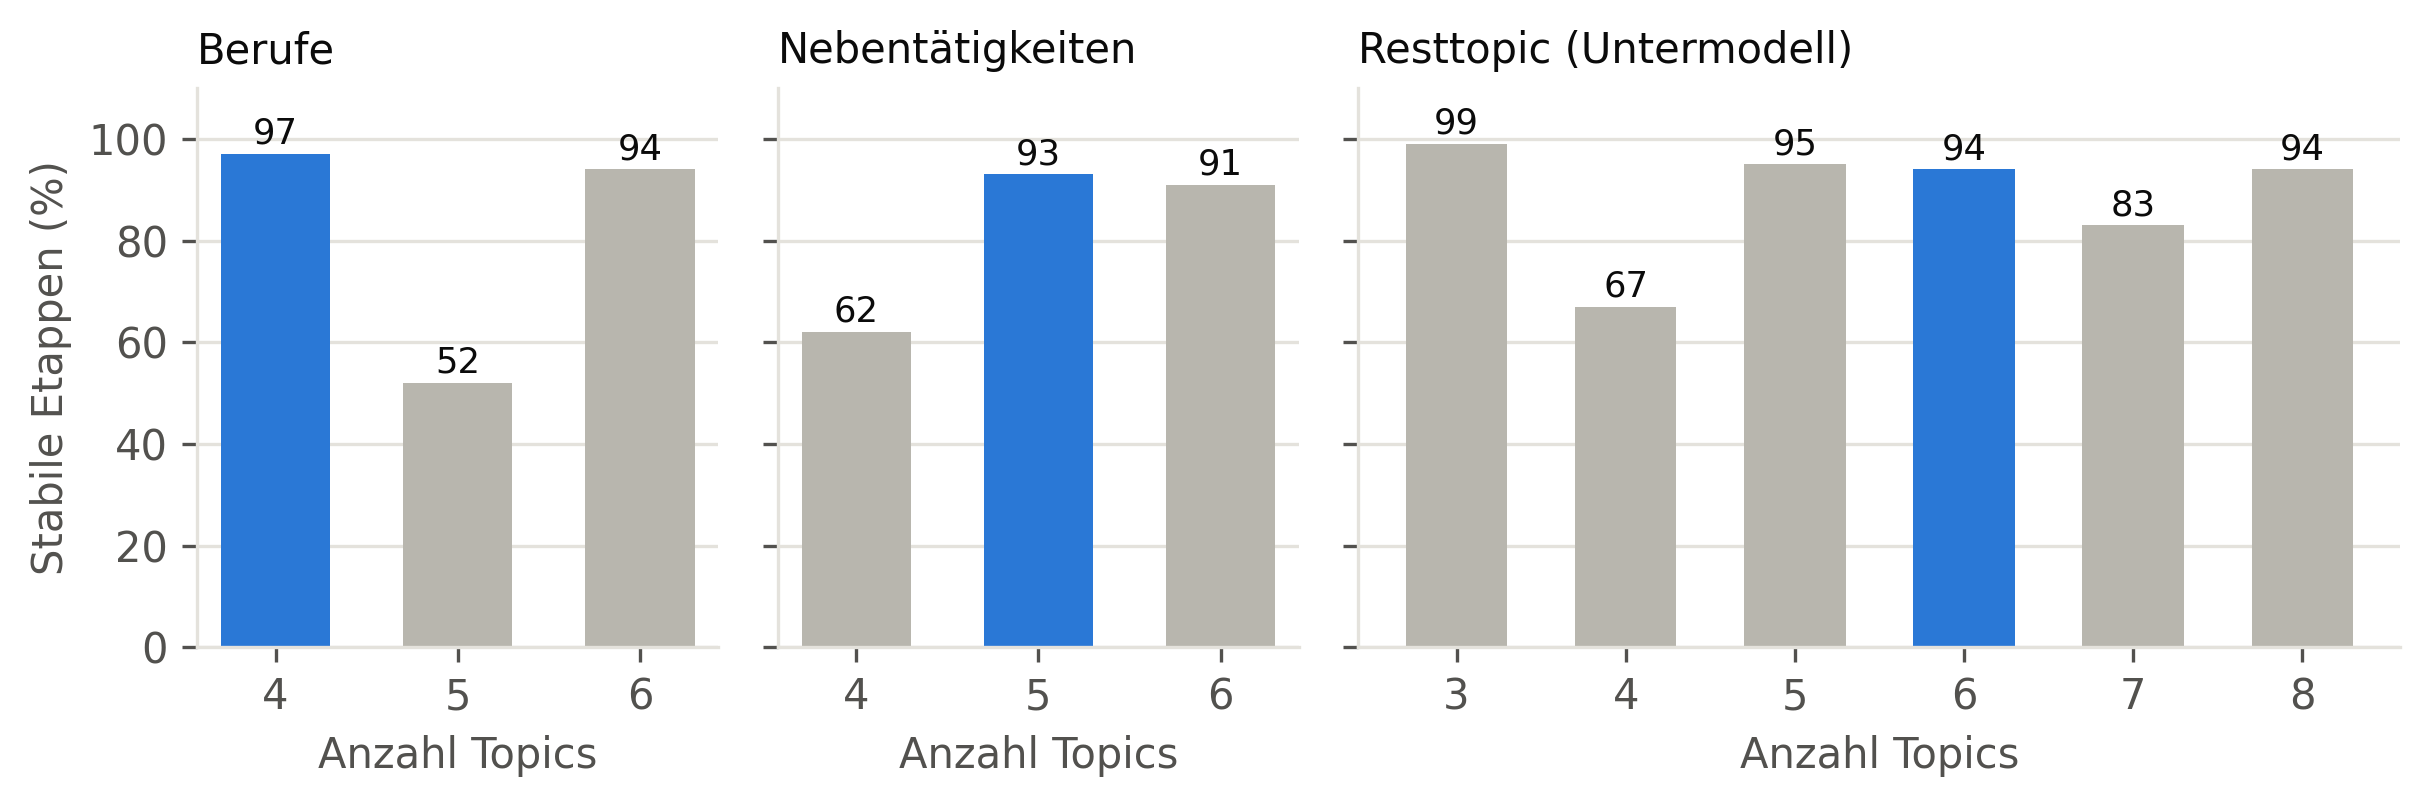
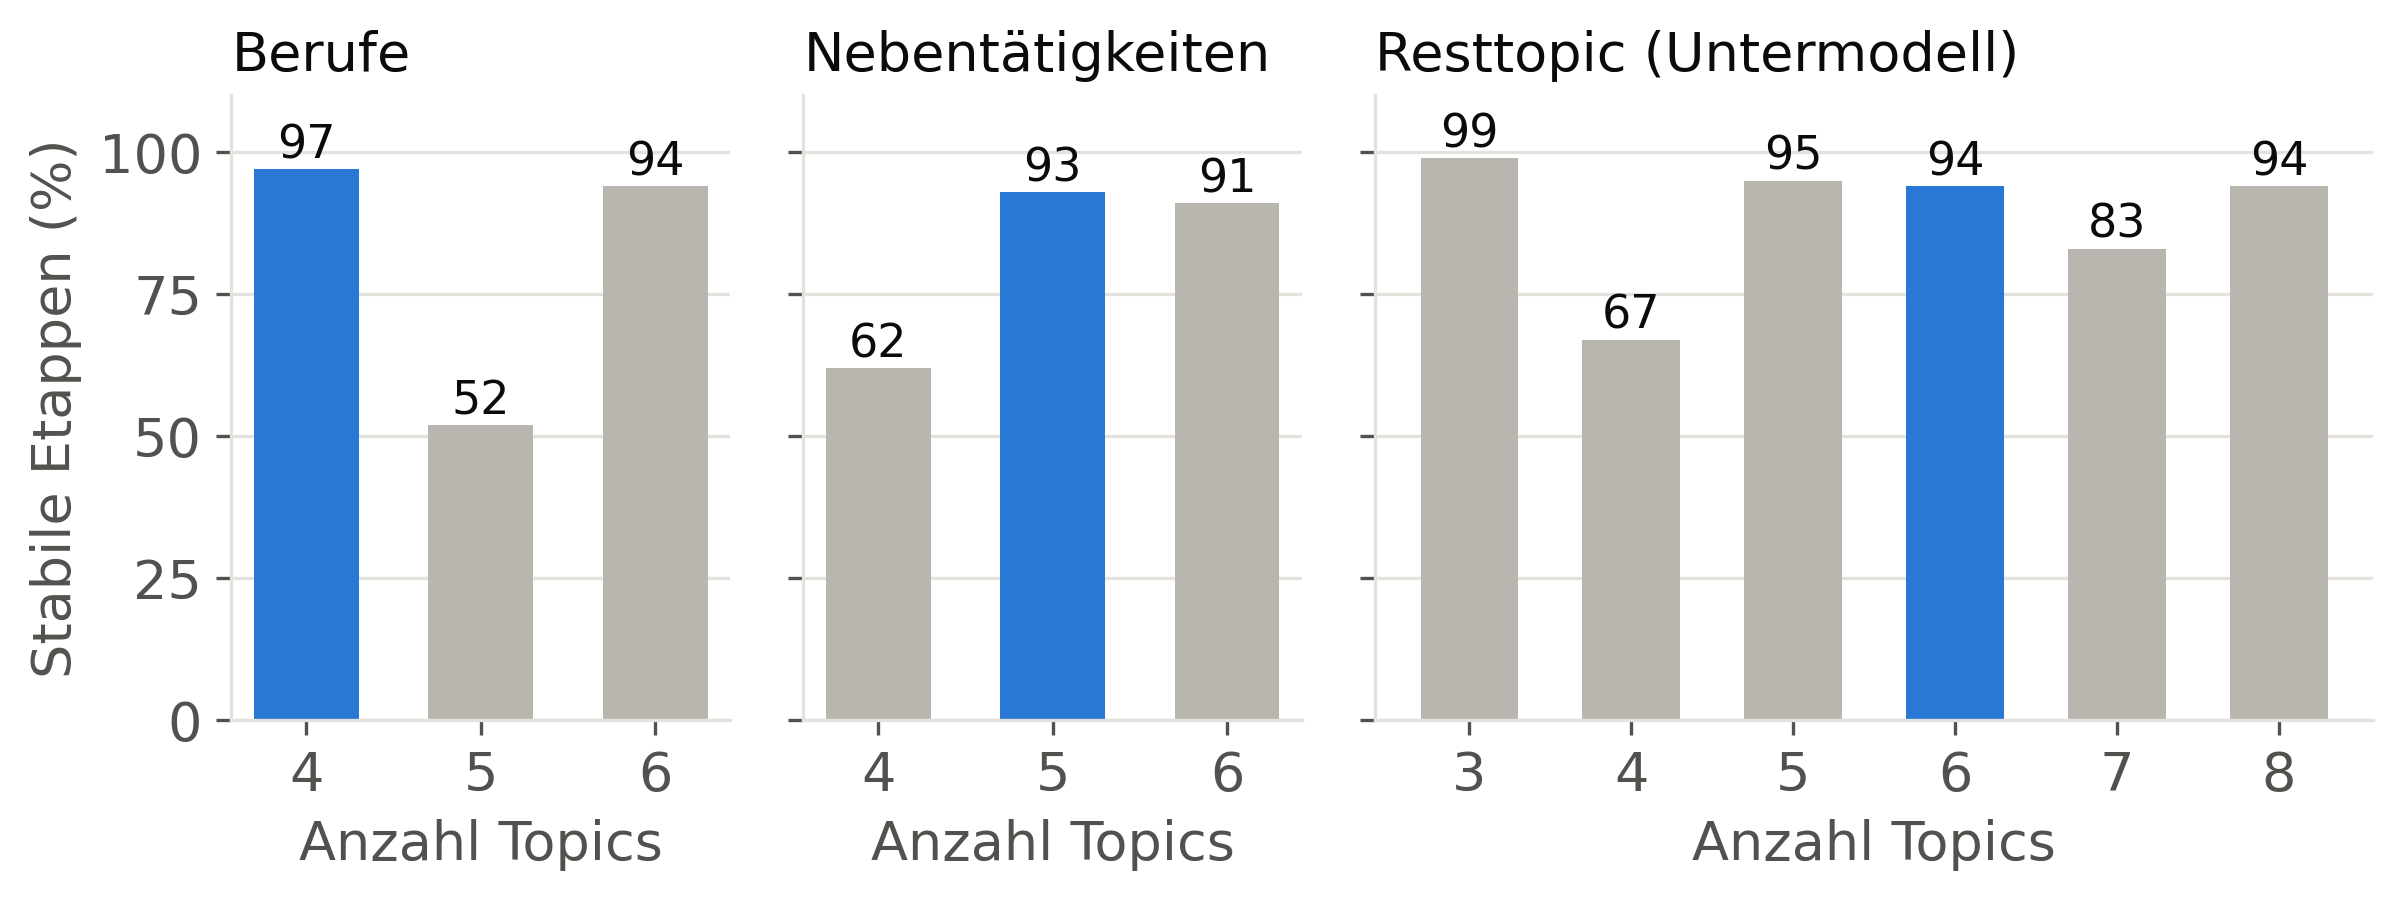
Bilder da vergrössern, wo es muss

diff --git a/data-mode/topic-models/scripts/y_abbildungen.py b/data-mode/topic-models/scripts/y_abbildungen.py
@@ -20,6 +20,9 @@ from pfade import *
 import json
 import numpy as np
 import matplotlib
+# Schriftfaktor: Die Abbildungen sind 8,2 Zoll breit und werden im Buch auf 15 cm verkleinert;
+# mit 1,3 fällt keine Beschriftung unter etwa 7,5 pt.
+SCHRIFT = 1.3
 matplotlib.use("Agg")
 import matplotlib.pyplot as plt
 from matplotlib.patches import FancyBboxPatch
@@ -27,7 +30,7 @@ from matplotlib.patches import FancyBboxPatch
 INK, INK2, GRID, MUTED = "#0b0b0b", "#52514e", "#e4e2dc", "#b8b6ae"
 BLUE, ORANGE, SURF = "#2a78d6", "#eb6834", "#ffffff"
 plt.rcParams.update({
-    "font.family": "DejaVu Sans", "font.size": 10, "text.color": INK,
+    "font.family": "DejaVu Sans", "font.size": 10 * SCHRIFT, "text.color": INK,
     "axes.edgecolor": GRID, "axes.labelcolor": INK2, "xtick.color": INK2,
     "ytick.color": INK2, "axes.spines.top": False, "axes.spines.right": False,
     "figure.facecolor": SURF, "axes.facecolor": SURF,
@@ -47,15 +50,15 @@ def save(fig, name):
 def title(ax, t, sub=None):
     if NOTITLE:
         return
-    ax.set_title(t, loc="left", fontsize=12, fontweight="bold", color=INK, pad=22 if sub else 8)
+    ax.set_title(t, loc="left", fontsize=12 * SCHRIFT, fontweight="bold", color=INK, pad=22 if sub else 8)
     if sub:
-        ax.text(0, 1.02, sub, transform=ax.transAxes, fontsize=9.5, color=INK2, va="bottom")
+        ax.text(0, 1.02, sub, transform=ax.transAxes, fontsize=9.5 * SCHRIFT, color=INK2, va="bottom")
 
 
 def box(ax, x, y, w, h, text, fc="#f4f3ef", ec=GRID, color=INK, bold=False, fs=9.5):
     ax.add_patch(FancyBboxPatch((x, y), w, h, boxstyle="round,pad=0.01,rounding_size=0.015",
                                 fc=fc, ec=ec, lw=1))
-    ax.text(x + w / 2, y + h / 2, text, ha="center", va="center", fontsize=fs, color=color,
+    ax.text(x + w / 2, y + h / 2, text, ha="center", va="center", fontsize=fs * SCHRIFT, color=color,
             fontweight="bold" if bold else "normal", wrap=True)
 
 
@@ -65,26 +68,26 @@ def arrow(ax, x1, y1, x2, y2):
 
 
 # ---------------------------------------------------------------- Abb. 1 Pipeline
-fig, ax = plt.subplots(figsize=(8.2, 3.6)); ax.axis("off"); ax.set_xlim(-0.03, 1.03); ax.set_ylim(0, 1)
+fig, ax = plt.subplots(figsize=(8.2, 4.14)); ax.axis("off"); ax.set_xlim(-0.03, 1.03); ax.set_ylim(0, 1)
 box(ax, 0.00, 0.40, 0.21, 0.22, "996 Berufs-\netappen aus\n163 Notizen", bold=True)
 box(ax, 0.30, 0.72, 0.30, 0.20, "Stichwortlexikon\n(49 Begriffe)")
-box(ax, 0.30, 0.40, 0.30, 0.20, "HISCO-Code → HISCAM-Wert\n+ Schwellen 67,6 / 82,4", fc="#eaf2fc", ec=BLUE)
-box(ax, 0.30, 0.08, 0.30, 0.20, "Geburtsjahr + 15\n+ 4 × Etappennummer")
+box(ax, 0.30, 0.40, 0.30, 0.20, "HISCO-Code →\nHISCAM-Wert, Schwellen\n67,6 / 82,4", fc="#eaf2fc", ec=BLUE, fs=8)
+box(ax, 0.30, 0.08, 0.30, 0.20, "Geburtsjahr + 15\n+ 4 × Etappen-\nnummer", fs=8.5)
 box(ax, 0.70, 0.72, 0.30, 0.20, "structure, sequence\n(60 % der Etappen)")
 box(ax, 0.70, 0.40, 0.30, 0.20, "category\n(46 % der Etappen)", fc="#eaf2fc", ec=BLUE, bold=True)
 box(ax, 0.70, 0.08, 0.30, 0.20, "year")
 for y in (0.82, 0.50, 0.18):
     arrow(ax, 0.21, 0.51, 0.30, y); arrow(ax, 0.60, y, 0.70, y)
-ax.text(0.85, 0.99, "Spalten der Vertragstabelle", ha="center", fontsize=9, color=INK2)
-ax.text(0.45, 0.99, "Verfahren", ha="center", fontsize=9, color=INK2)
+ax.text(0.85, 0.99, "Spalten der Vertragstabelle", ha="center", fontsize=9 * SCHRIFT, color=INK2)
+ax.text(0.45, 0.99, "Verfahren", ha="center", fontsize=9 * SCHRIFT, color=INK2)
 title(ax, "HISCO bestimmt nur die Akteurkategorie, nicht die Relationsstruktur")
 save(fig, "abb1_pipeline.png")
 
 # ---------------------------------------------------------------- Abb. 2 Vorgehen
-fig, ax = plt.subplots(figsize=(8.2, 3.9)); ax.axis("off"); ax.set_xlim(-0.03, 1.03); ax.set_ylim(0, 1)
+fig, ax = plt.subplots(figsize=(8.2, 4.48)); ax.axis("off"); ax.set_xlim(-0.03, 1.03); ax.set_ylim(0, 1)
 box(ax, 0.00, 0.62, 0.22, 0.26, "Ein Dokument je\nTätigkeits-\nwechsel: 996\nBerufsetappen", bold=True)
-box(ax, 0.29, 0.62, 0.22, 0.26, "Topic-Modell\nK = 4\n50 Läufe → Konsens")
-box(ax, 0.58, 0.74, 0.42, 0.14, "3 klare Topics: Laufjunge/Laden ·\nLehre/Druck · Journalist", fc="#eaf2fc", ec=BLUE)
+box(ax, 0.29, 0.62, 0.22, 0.26, "Topic-Modell\nK = 4\n50 Läufe →\nKonsens", fs=8.5)
+box(ax, 0.58, 0.74, 0.42, 0.14, "3 klare Topics: Laufjunge/Laden,\nLehre/Druck, Journalist", fc="#eaf2fc", ec=BLUE, fs=8.5)
 box(ax, 0.58, 0.55, 0.42, 0.14, "Resttopic: 610 Etappen\n(editor, clerk, employed …)")
 box(ax, 0.58, 0.20, 0.42, 0.24, "Untermodell nur im Resttopic\nK2 = 6, 50 Läufe → Konsens\n6 Unterthemen, u. a. Fabrik,\nBüro, Gewerkschaft")
 box(ax, 0.00, 0.10, 0.48, 0.30, "Jedes Topic als manuell oder\nnicht-manuell gelesen\n→ Übergang je Akteur\n→ Vergleich mit HISCLASS (κ)", fc="#fdf0ea", ec=ORANGE)
@@ -100,12 +103,14 @@ data = {
     "K = 5": [("Laufjunge", 111, BLUE), ("Lehre/Druck", 119, BLUE), ("Presse", 71, BLUE), ("Redakteur", 97, BLUE), ("Resttopic", 560, MUTED)],
     "K = 6": [("Laufjunge", 109, BLUE), ("Lehre/Druck", 118, BLUE), ("Presse", 65, BLUE), ("Redakteur", 98, BLUE), ("Lehrer", 59, BLUE), ("Resttopic", 509, MUTED)],
 }
-fig, ax = plt.subplots(figsize=(8.2, 2.9))
+fig, ax = plt.subplots(figsize=(8.2, 3.33))
 for row, (k, segs) in enumerate(reversed(list(data.items()))):
     left = 0
     for i, (lab, n, c) in enumerate(segs):
         ax.barh(row, n, left=left, color=c, height=0.62, edgecolor=SURF, linewidth=2)
-        ax.text(left + n / 2, row, f"{lab}\n{n}", ha="center", va="center", fontsize=7 if n < 80 else 7.5,
+        kurz = {"Lehre/Druck": "Lehre/\nDruck", "Redakteur": "Redak-\nteur", "Laufjunge": "Lauf-\njunge"}
+        txt = kurz.get(lab, lab) if n < 130 else lab                # schmale Balken: Beschriftung umbrechen
+        ax.text(left + n / 2, row, f"{txt}\n{n}", ha="center", va="center", fontsize=(6.2 if n < 80 else 6.8) * SCHRIFT,
                 color=INK if c == MUTED else "white")
         left += n
 ax.set_yticks(range(3)); ax.set_yticklabels(list(reversed(list(data))))
@@ -121,14 +126,14 @@ rows = [("HISCLASS (Referenz)", 64, None, ORANGE),
         ("K = 4, ein Lauf", 71, 0.28, BLUE), ("K = 5, ein Lauf", 63, 0.27, BLUE),
         ("K = 6, ein Lauf", 66, 0.32, BLUE), ("K = 4, Konsens", 72, 0.30, BLUE),
         ("K = 4 + Resttopic-Modell, Konsens", 75, 0.30, BLUE)]
-fig, ax = plt.subplots(figsize=(8.2, 3.3))
+fig, ax = plt.subplots(figsize=(8.2, 3.79))
 for i, (lab, v, k, c) in enumerate(reversed(rows)):
     ax.barh(i, v, color=c, height=0.6)
     ax.text(v + 1.8, i, f"{v} %" + (f"   κ = {k:.2f}".replace(".", ",") if k is not None else ""),
-            va="center", fontsize=9, color=INK)
+            va="center", fontsize=9 * SCHRIFT, color=INK)
 ax.axvline(64, color=ORANGE, lw=1, ls=(0, (3, 3)))
 ax.set_yticks(range(len(rows))); ax.set_yticklabels([r[0] for r in reversed(rows)])
-ax.set_xlim(0, 100); ax.set_xlabel("Anteil der Akteure mit Übergang von manueller zu nicht-manueller Tätigkeit (%)")
+ax.set_xlim(0, 100); ax.set_xlabel("Akteure mit Übergang manuell → nicht-manuell (%)")
 ax.tick_params(axis="y", length=0); ax.spines["left"].set_visible(False)
 title(ax, "Für die Kohorte dasselbe Bild wie HISCLASS – je Akteur nur mäßige Übereinstimmung",
       "κ = Übereinstimmung mit HISCLASS je Akteur, bereinigt um Zufall (0 = Zufall, 1 = vollständig)")
@@ -138,42 +143,42 @@ save(fig, "abb4_uebergang.png")
 panels = [("Berufe", [4, 5, 6], [97, 52, 94], 4),
           ("Nebentätigkeiten", [4, 5, 6], [62, 93, 91], 5),
           ("Resttopic (Untermodell)", [3, 4, 5, 6, 7, 8], [99, 67, 95, 94, 83, 94], 6)]
-fig, axs = plt.subplots(1, 3, figsize=(8.2, 3.0), gridspec_kw={"width_ratios": [3, 3, 6]}, sharey=True)
+fig, axs = plt.subplots(1, 3, figsize=(8.2, 3.45), gridspec_kw={"width_ratios": [3, 3, 6]}, sharey=True)
 for ax, (name, ks, vals, chosen) in zip(axs, panels):
     cols = [BLUE if k == chosen else MUTED for k in ks]
     ax.bar([str(k) for k in ks], vals, color=cols, width=0.6)
     for x, v in zip([str(k) for k in ks], vals):
-        ax.text(x, v + 2, f"{v}", ha="center", fontsize=8.5, color=INK)
-    ax.set_title(name, fontsize=10, color=INK, loc="left")
+        ax.text(x, v + 2, f"{v}", ha="center", fontsize=8.5 * SCHRIFT, color=INK)
+    ax.set_title(name, fontsize=10 * SCHRIFT, color=INK, loc="left")
     ax.set_xlabel("Anzahl Topics"); ax.set_ylim(0, 110)
     ax.yaxis.grid(True, color=GRID); ax.set_axisbelow(True)
 axs[0].set_ylabel("Stabile Etappen (%)")
 if not NOTITLE: fig.suptitle("Wie stabil ist das Modell? Anteil der Etappen, die in ≥ 2/3 der 50 Läufe ihr Topic behalten",
-             x=0.01, ha="left", fontsize=11, fontweight="bold", y=1.06)
+             x=0.01, ha="left", fontsize=11 * SCHRIFT, fontweight="bold", y=1.06)
 if not NOTITLE: fig.text(0.01, 0.975, "Blau: gewähltes Modell. K = 3 im Resttopic ist stabil, bildet aber wieder ein Sammeltopic.",
-         fontsize=9, color=INK2)
+         fontsize=9 * SCHRIFT, color=INK2)
 fig.tight_layout(rect=(0, 0, 1, 0.93))
 save(fig, "abb5_stabilitaet.png")
 
 # ---------------------------------------------------------------- Abb. 6 Abweichungen
-fig, ax = plt.subplots(figsize=(8.2, 2.6))
+fig, ax = plt.subplots(figsize=(8.2, 2.99))
 segs = [("klarer Übergang, den HISCLASS verfehlt", 16, BLUE, 1.0),
         ("echter Übergang über falsch gelesene Etappe", 2, BLUE, 0.55),
         ("unklar", 9, MUTED, 1.0), ("Fehler der Topics", 1, ORANGE, 1.0)]
 left = 0
 for lab, n, c, a in segs:
     ax.barh(1, n, left=left, color=c, alpha=a, height=0.55, edgecolor=SURF, linewidth=2)
-    ax.text(left + n / 2, 1, str(n), ha="center", va="center", fontsize=9,
+    ax.text(left + n / 2, 1, str(n), ha="center", va="center", fontsize=9 * SCHRIFT,
             color="white" if c != MUTED else INK)
     left += n
 ax.barh(0, 4, color=ORANGE, height=0.55)
-ax.text(4.4, 0, "4", va="center", fontsize=9)
+ax.text(4.4, 0, "4", va="center", fontsize=9 * SCHRIFT)
 ax.set_yticks([0, 1]); ax.set_yticklabels(["HISCLASS sieht Übergang,\nTopics nicht",
                                            "Topics sehen Übergang,\nHISCLASS nicht (28)"])
 ax.set_xlim(0, 30); ax.set_xlabel("Akteure"); ax.tick_params(axis="y", length=0)
 ax.spines["left"].set_visible(False)
 handles = [plt.Rectangle((0, 0), 1, 1, color=c, alpha=a) for _, _, c, a in segs]
-ax.legend(handles, [s[0] for s in segs], loc="lower right", fontsize=8, frameon=False)
+ax.legend(handles, [s[0] for s in segs], loc="lower right", fontsize=8 * SCHRIFT, frameon=False)
 title(ax, "Die Abweichungen gehen fast nur in eine Richtung",
       "Zweistufiger Konsens gegen HISCLASS, 113 Akteure. Bei 25 der 28 hat die manuelle Etappe keinen HISCO-Code.")
 save(fig, "abb6_abweichungen.png")
@@ -185,22 +190,22 @@ NAMES = {"AA": "A.A Autor, Dozent", "AB": "A.B Religion", "AC": "A.C Druckgewerb
          "AD": "A.D Verlag, Buchhandel", "BB": "B.B Politik", "BD": "B.D Gewerkschaft",
          "CA": "C.A Leitung, Landwirt", "CC": "C.C Handarbeit", "CD": "C.D Bote, Handel",
          "DA": "D.A Journalismus", "DC": "D.C Zeitungsverkauf", "DD": "D.D Redaktion"}
-fig, ax = plt.subplots(figsize=(8.2, 4.6))
-LPOS = {"AB": (0.33, 90.5), "DA": (0.02, 89.5), "BB": (0.43, 87.6), "BD": (0.30, 86.0),
+fig, ax = plt.subplots(figsize=(8.2, 5.29))
+LPOS = {"AB": (0.33, 91.5), "DA": (-0.14, 89.0), "BB": (0.45, 88.0), "BD": (0.30, 84.6),
         "CA": (-0.20, 84.5), "AD": (-0.20, 79.0), "AA": (0.30, 78.0), "DD": (0.33, 82.0),
         "AC": (-0.05, 69.0), "CC": (-0.48, 64.5), "CD": (-0.22, 58.5), "DC": (-0.45, 55.0)}
 for p, lab in NAMES.items():
     x, y = P[p]["attraction"], P[p]["mean_hiscam"]
     ax.scatter(x, y, s=46, color=BLUE, zorder=3, edgecolor=SURF, linewidth=1.5)
     lx, ly = LPOS[p]
-    ax.annotate(lab, xy=(x, y), xytext=(lx, ly), fontsize=8, color=INK2, va="center",
+    ax.annotate(lab, xy=(x, y), xytext=(lx, ly), fontsize=8 * SCHRIFT, color=INK2, va="center",
                 arrowprops=dict(arrowstyle="-", color=MUTED, lw=0.7, shrinkA=0, shrinkB=4))
 ax.axvline(0, color=GRID, lw=1)
-ax.set_xlabel("Netto-Attraktivität in der Kohorte  (Zuflüsse − Abflüsse) / (Zuflüsse + Abflüsse)")
+ax.set_xlabel("Netto-Attraktivität: (Zuflüsse − Abflüsse) / (Zuflüsse + Abflüsse)")
 ax.set_ylabel("Mittlerer HISCAM-Wert")
 ax.xaxis.set_major_formatter(COMMA); ax.set_xlim(-0.62, 0.62); ax.set_ylim(53, 93); ax.yaxis.grid(True, color=GRID); ax.set_axisbelow(True)
-ax.text(-0.6, 74, "← Position wird verlassen", fontsize=8.5, color=INK2)
-ax.text(0.53, 74, "Position wird aufgesucht →", fontsize=8.5, color=INK2, ha="right")
+ax.text(-0.6, 74, "← Position wird verlassen", fontsize=8.5 * SCHRIFT, color=INK2)
+ax.text(0.53, 74, "Position wird aufgesucht →", fontsize=8.5 * SCHRIFT, color=INK2, ha="right")
 title(ax, f"Die Bewegungen der Akteure ordnen die Positionen fast wie HISCAM (ρ = {RG['spearman']['rho']:.2f})".replace(".", ","),
       "12 Positionen (Struktur.Sequenz) der Lexikon-Kodierung; ρ = Spearmans Rangkorrelation")
 save(fig, "abb7_rangordnung.png")
@@ -210,13 +215,13 @@ AQUA = "#1baf7a"
 VS = RG["vertikal_statisch"]
 rows = [(lab, VS["HISCAM-Regel (N1)"][x], VS["Regel A (E1)"][x], VS["Regel B (E1B)"][x])
         for lab, x in (("A · Kultur", "A"), ("B · Politik", "B"), ("C · Wirtschaft", "C"), ("D · Medien", "D"))]
-fig, ax = plt.subplots(figsize=(8.2, 3.6))
+fig, ax = plt.subplots(figsize=(8.2, 4.14))
 for i, (lab, h, a, b) in enumerate(reversed(rows)):
     vals = [h, a, b]
     ax.plot([min(vals), max(vals)], [i, i], color=GRID, lw=2.5, zorder=1)
     for v, col, dy in ((h, MUTED, 0.24), (a, BLUE, 0.24), (b, AQUA, -0.34)):
         ax.scatter(v, i, s=80, color=col, zorder=3, edgecolor=SURF, linewidth=1.5)
-        ax.text(v, i + dy, f"{v:.2f}".replace(".", ","), ha="center", fontsize=8.5,
+        ax.text(v, i + dy, f"{v:.2f}".replace(".", ","), ha="center", fontsize=8.5 * SCHRIFT,
                 color=INK2 if col == MUTED else col)
 ax.set_yticks(range(4)); ax.set_yticklabels([r[0] for r in reversed(rows)])
 ax.set_xlim(-0.02, 0.8); ax.set_ylim(-0.7, 3.6); ax.xaxis.set_major_formatter(COMMA)
@@ -226,20 +231,20 @@ ax.spines["left"].set_visible(False)
 ax.scatter([], [], s=60, color=MUTED, label="HISCAM-Regel (Statusstufen)")
 ax.scatter([], [], s=60, color=BLUE, label="Zirkulationsregel A (Ziel entscheidet)")
 ax.scatter([], [], s=60, color=AQUA, label="Zirkulationsregel B (Ausgangsposition entscheidet)")
-ax.legend(loc="upper center", bbox_to_anchor=(0.5, -0.2), ncol=3, fontsize=8, frameon=False)
+ax.legend(loc="upper center", bbox_to_anchor=(0.5, -0.2), ncol=2, fontsize=8 * SCHRIFT, frameon=False)
 title(ax, "Regel B findet ohne Statusskala den Kern des HISCAM-Befunds: die Wirtschaft ist am stärksten geschichtet",
       "Gleiche Zuordnung zu Strukturen und Sequenzen (Lexikon); nur die Regel für die Kategorien wechselt.")
 save(fig, "abb8_vertikal.png")
 
 # ---------------- Abb. 9: Abweichung bisher geschätzter Jahre
 d = np.array(json.load(open(ergeb("date_diffs.json"))))
-fig, ax = plt.subplots(figsize=(8.2, 3.2))
+fig, ax = plt.subplots(figsize=(8.2, 3.68))
 bins = np.arange(-50, 50, 5)
 cnt, edges = np.histogram(d, bins=bins)
 cols = [MUTED if abs(c) <= 10 else BLUE for c in (edges[:-1] + 2.5)]
 ax.bar(edges[:-1] + 2.5, cnt, width=4.4, color=cols)
 ax.axvline(0, color=INK2, lw=1)
-ax.text(1, cnt.max() * 0.95, "bisherige Schätzung\nstimmt", fontsize=8.5, color=INK2)
+ax.text(1, cnt.max() * 0.95, "bisherige Schätzung\nstimmt", fontsize=8.5 * SCHRIFT, color=INK2)
 ax.set_xlabel("Echtes Jahr minus bisher geschätztes Jahr (Jahre)")
 ax.set_ylabel("Etappen")
 ax.yaxis.grid(True, color=GRID); ax.set_axisbelow(True)
@@ -253,7 +258,7 @@ R = json.load(open(ergeb("circ_mob_v2.json"), encoding="utf-8"))["Topics"]
 types = ["Strukturwechsel", "Sequenzwechsel", "gleiche Position"]
 labels = {"Strukturwechsel": "Wechsel der Relationsstruktur", "Sequenzwechsel": "Wechsel der Sequenz\n(gleiche Struktur)",
           "gleiche Position": "gleiche Position"}
-fig, ax = plt.subplots(figsize=(8.2, 3.3))
+fig, ax = plt.subplots(figsize=(8.2, 3.79))
 for row, t in enumerate(reversed(types)):
     v = [R["tab"].get(f"{t}|{h}", 0) for h in ("auf", "gleich", "ab")]
     n = sum(v); left = 0
@@ -261,16 +266,16 @@ for row, t in enumerate(reversed(types)):
         w = val / n * 100
         ax.barh(row, w, left=left, color=col, height=0.6, edgecolor=SURF, linewidth=2)
         if w >= 8:
-            ax.text(left + w / 2, row, f"{w:.0f} %", ha="center", va="center", fontsize=9,
+            ax.text(left + w / 2, row, f"{w:.0f} %", ha="center", va="center", fontsize=9 * SCHRIFT,
                     color="white" if col != MUTED else INK)
         left += w
-    ax.text(101.5, row, f"{R['n_typ'][t]} Übergänge,\n{n} mit HISCAM prüfbar", va="center", fontsize=8.5, color=INK2)
+    ax.text(101.5, row, f"{R['n_typ'][t]} Übergänge,\n{n} mit HISCAM prüfbar", va="center", fontsize=8.5 * SCHRIFT, color=INK2)
 ax.set_yticks(range(3)); ax.set_yticklabels([labels[t] for t in reversed(types)])
 ax.set_xlim(0, 100); ax.set_xlabel("Richtung der Statusänderung nach HISCAM (% der prüfbaren Übergänge)")
 ax.tick_params(axis="y", length=0); ax.spines["left"].set_visible(False)
 handles = [plt.Rectangle((0, 0), 1, 1, color=c) for c in (BLUE, MUTED, ORANGE)]
 ax.legend(handles, ["aufwärts (≥ +3)", "gleich", "abwärts (≤ −3)"], loc="upper center",
-          bbox_to_anchor=(0.45, -0.28), ncol=3, frameon=False, fontsize=8.5)
+          bbox_to_anchor=(0.45, -0.28), ncol=3, frameon=False, fontsize=8.5 * SCHRIFT)
 title(ax, "Nicht einmal die Hälfte der Wechsel zwischen Relationsstrukturen ist ein Aufstieg",
       "Übergänge zwischen aufeinanderfolgenden Etappen, überarbeitete Topic-Klassifikation")
 save(fig, "abb10_zirkulation.png")
@@ -278,27 +283,27 @@ save(fig, "abb10_zirkulation.png")
 # ---------------- Abb. 11: Nebenbefund zerlegt
 NB = json.load(open(ergeb("nebenbefund.json"), encoding="utf-8"))
 LK = json.load(open(ergeb("leer_kontrolle.json"), encoding="utf-8"))
-st = {"statisch, nur Etappen mit Kategorie\n(Bericht zur Atypizität)": (NB["statisch_gepoolt"]["nur_kodiert"], MUTED, "o"),
+st = {"statisch, nur Etappen mit Kategorie\n(wie in Kapitel 11)": (NB["statisch_gepoolt"]["nur_kodiert"], MUTED, "o"),
       "statisch, fehlende Kategorie\nals Bewahrende gelesen": (NB["statisch_gepoolt"]["alle"], INK2, "s"),
       "Eingabe des Zwillings\n(Mittel der Jahre mit Akteuren)": (LK["orig"]["input_besetzt"], BLUE, "D"),
       "laufender Zwilling\n(Mittel über den Lauf)": (LK["orig"]["twin"], ORANGE, "o")}
 st = {k: ([round(x, 2) for x in v], c, m) for k, (v, c, m) in st.items()}  # wie im Buch auf zwei Stellen
 names = ["A Kultur", "B Politik", "C Wirtschaft", "D Medien"]
-fig, ax = plt.subplots(figsize=(8.2, 3.6))
+fig, ax = plt.subplots(figsize=(8.2, 4.14))
 for x in range(4):
     vals = [v[0][x] for v in st.values()]
     ax.plot([min(vals), max(vals)], [3 - x] * 2, color=GRID, lw=3, zorder=1)
 for lab, (v, col, m) in st.items():
     ax.scatter(v, [3, 2, 1, 0], s=70, color=col, marker=m, zorder=3, label=lab, edgecolor="white", linewidth=0.8)
 ax.axvline(0.40, color=INK2, lw=0.8, ls=":")
-ax.text(0.405, 3.45, "symmetrischer\nAusgangswert 0,40", fontsize=8, color=INK2, va="center")
+ax.text(0.405, 3.45, "symmetrischer\nAusgangswert 0,40", fontsize=8 * SCHRIFT, color=INK2, va="center")
 ax.set_yticks(range(4)); ax.set_yticklabels(list(reversed(names)))
 ax.set_xlim(0, 0.8); ax.set_ylim(-0.5, 3.8)
 ax.set_xlabel("Vertikale Ungleichheit (Gini) je Struktur")
 ax.xaxis.set_major_formatter(matplotlib.ticker.FuncFormatter(lambda v, p: f"{v:.1f}".replace(".", ",")))
 ax.tick_params(axis="y", length=0); ax.spines["left"].set_visible(False)
 ax.xaxis.grid(True, color=GRID); ax.set_axisbelow(True)
-ax.legend(loc="upper center", bbox_to_anchor=(0.45, -0.2), ncol=2, frameon=False, fontsize=8.5)
+ax.legend(loc="upper center", bbox_to_anchor=(0.45, -0.2), ncol=2, frameon=False, fontsize=8.5 * SCHRIFT)
 title(ax, "Die Daten bleiben bis zur Eingabe geschichtet wie gelesen; erst der Lauf kehrt das Bild um",
       "Veröffentlichte Vertragstabelle (N0); C bleibt in der Eingabe am stärksten, B am schwächsten geschichtet")
 save(fig, "abb11_nebenbefund.png")
@@ -308,7 +313,7 @@ var = [("orig", "gleichverteilte Lückenfüllung (bisher)", ORANGE, "o"),
        ("fort", "(a) letzte Beobachtung fortgeschrieben", INK2, "s"),
        ("pool", "(b) Gesamtzusammensetzung in den Lücken", BLUE, "D"),
        ("konst", "(c) Gesamtzusammensetzung in allen Jahren\n(nur die Mechanik wirkt)", AQUA, "^")]
-fig, ax = plt.subplots(figsize=(8.2, 3.6))
+fig, ax = plt.subplots(figsize=(8.2, 4.14))
 for x in range(4):
     vals = [LK[v[0]]["twin"][x] for v in var]
     ax.plot([min(vals), max(vals)], [3 - x] * 2, color=GRID, lw=3, zorder=1)
@@ -320,7 +325,7 @@ ax.set_xlabel("Vertikale Ungleichheit (Gini) je Struktur, Mittel über den Lauf"
 ax.xaxis.set_major_formatter(matplotlib.ticker.FuncFormatter(lambda v, p: f"{v:.1f}".replace(".", ",")))
 ax.tick_params(axis="y", length=0); ax.spines["left"].set_visible(False)
 ax.xaxis.grid(True, color=GRID); ax.set_axisbelow(True)
-ax.legend(loc="upper center", bbox_to_anchor=(0.45, -0.2), ncol=2, frameon=False, fontsize=8.5)
+ax.legend(loc="upper center", bbox_to_anchor=(0.45, -0.2), ncol=2, frameon=False, fontsize=8.5 * SCHRIFT)
 title(ax, "Ohne gleichverteilte Lückenfüllung ist C wieder am stärksten geschichtet",
       "Laufender Zwilling mit N0; Behandlung von Strukturen ohne aktive Akteure")
 save(fig, "abb12_leer.png")
